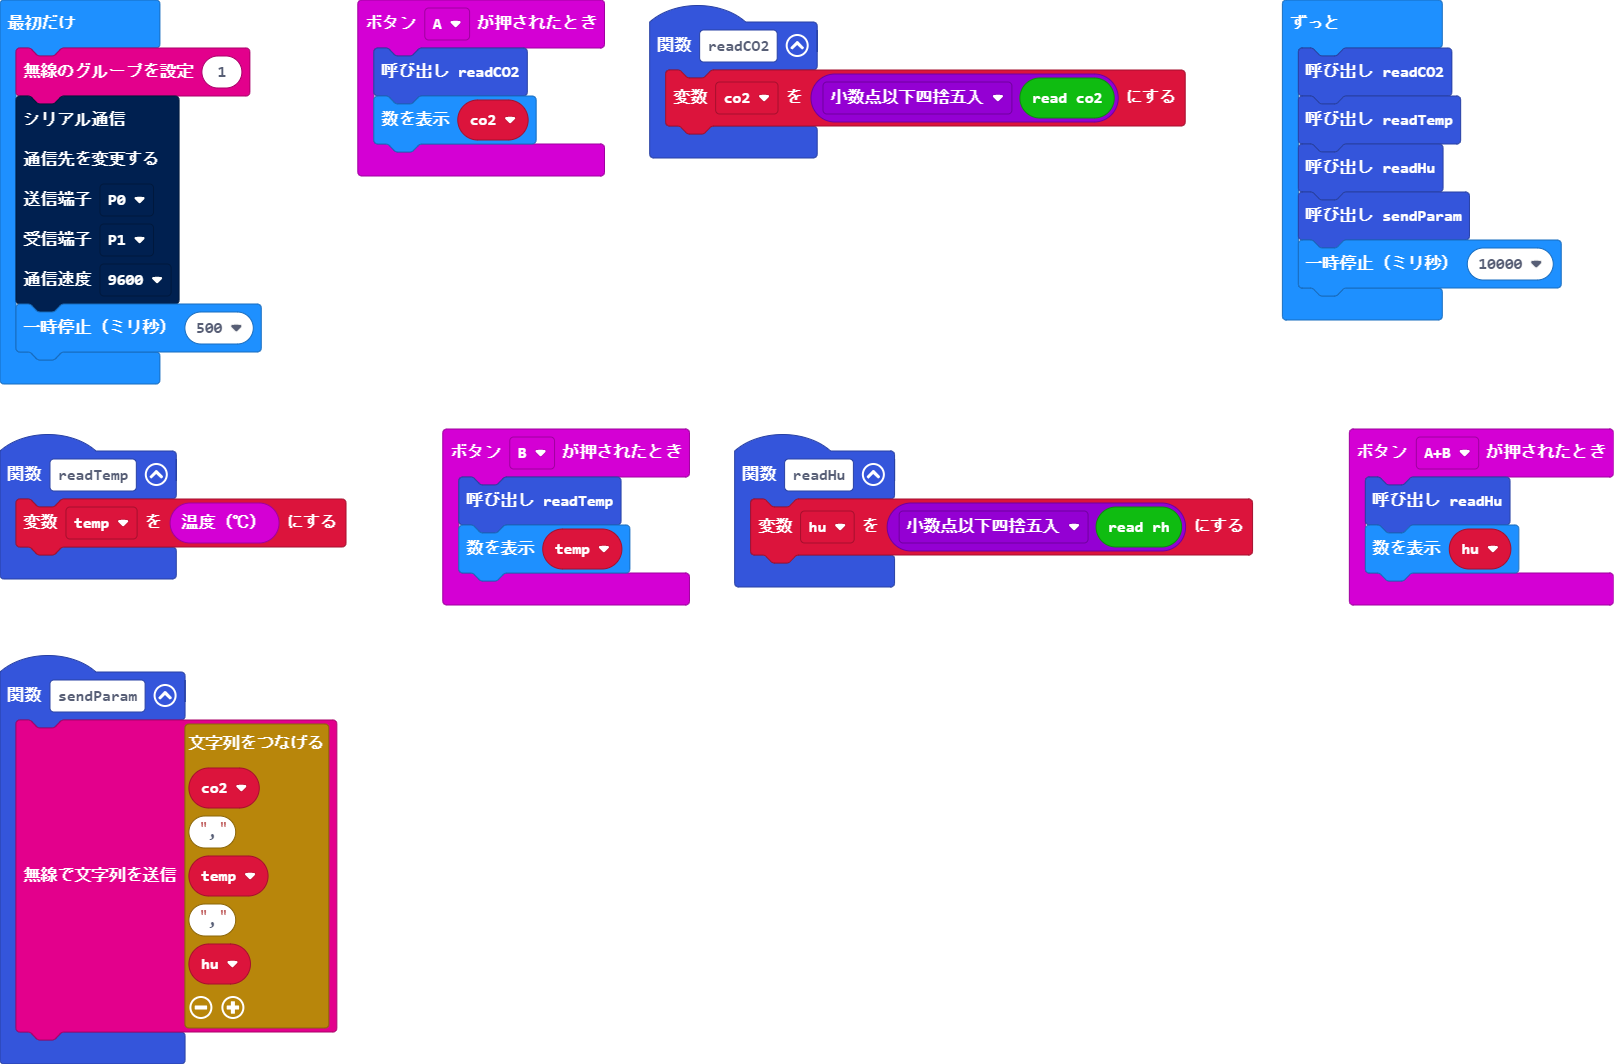
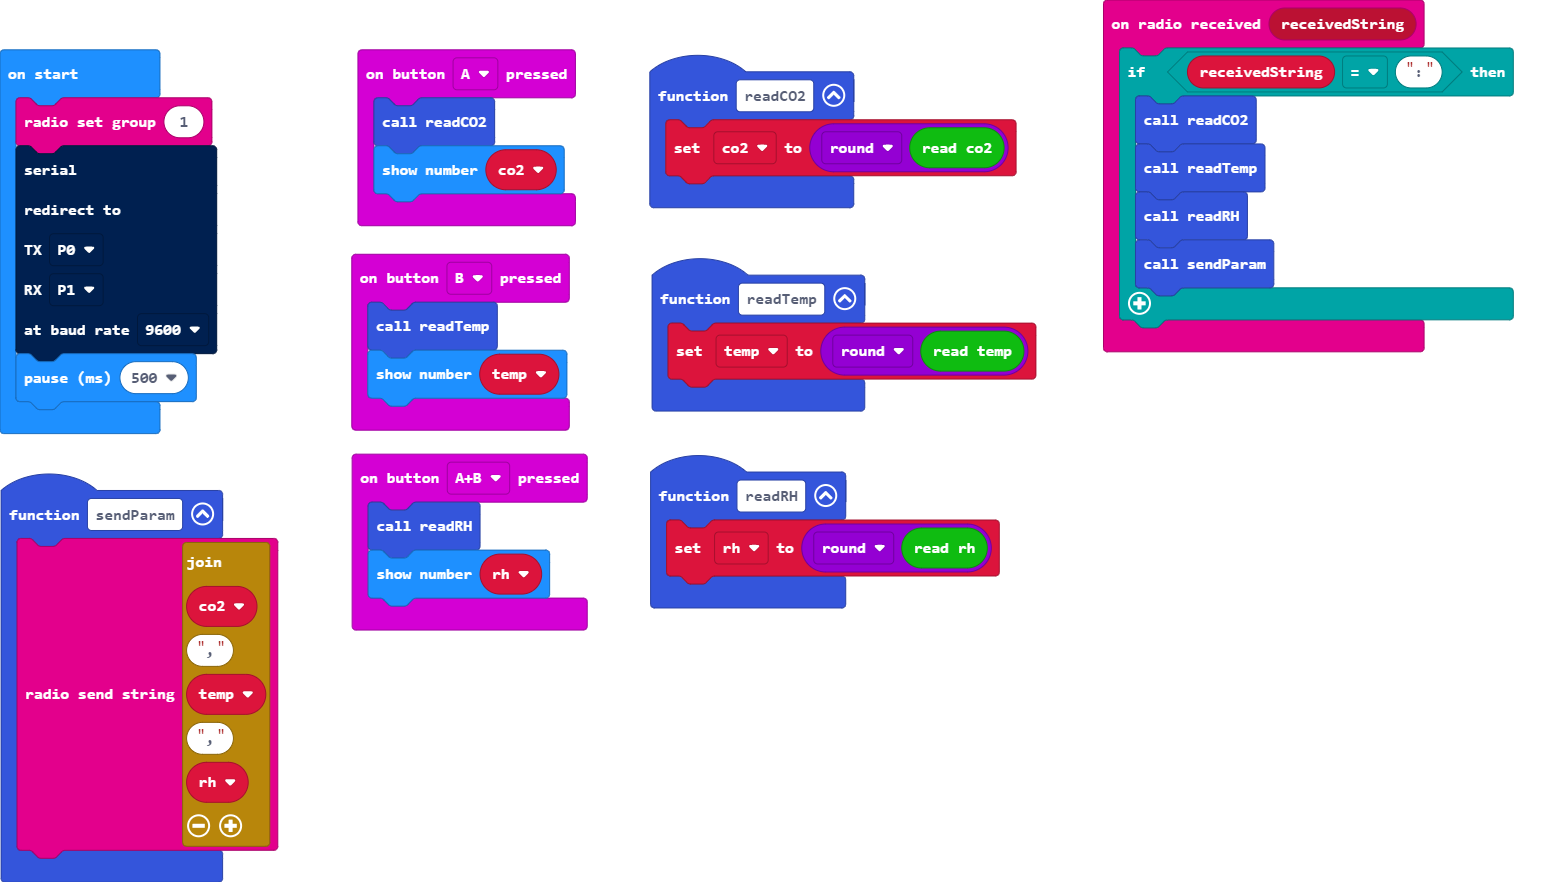
changed to receive read command ":"

diff --git a/main.ts b/main.ts
@@ -1,3 +1,6 @@
+function readRH () {
+    rh = Math.round(COZIR.readRh())
+}
 input.onButtonPressed(Button.A, function () {
     readCO2()
     basic.showNumber(co2)
@@ -6,25 +9,30 @@ function readCO2 () {
     co2 = Math.round(COZIR.readCo2())
 }
 input.onButtonPressed(Button.AB, function () {
-    readHu()
-    basic.showNumber(hu)
+    readRH()
+    basic.showNumber(rh)
 })
 function sendParam () {
-    radio.sendString("" + co2 + "," + temp + "," + hu)
+    radio.sendString("" + co2 + "," + temp + "," + rh)
 }
+radio.onReceivedString(function (receivedString) {
+    if (receivedString == ":") {
+        readCO2()
+        readTemp()
+        readRH()
+        sendParam()
+    }
+})
 input.onButtonPressed(Button.B, function () {
     readTemp()
     basic.showNumber(temp)
 })
 function readTemp () {
-    temp = input.temperature()
-}
-function readHu () {
-    hu = Math.round(COZIR.readRh())
+    temp = Math.round(COZIR.readTemp())
 }
 let temp = 0
-let hu = 0
 let co2 = 0
+let rh = 0
 radio.setGroup(1)
 serial.redirect(
 SerialPin.P0,
@@ -32,10 +40,3 @@ SerialPin.P1,
 BaudRate.BaudRate9600
 )
 basic.pause(500)
-basic.forever(function () {
-    readCO2()
-    readTemp()
-    readHu()
-    sendParam()
-    basic.pause(10000)
-})
